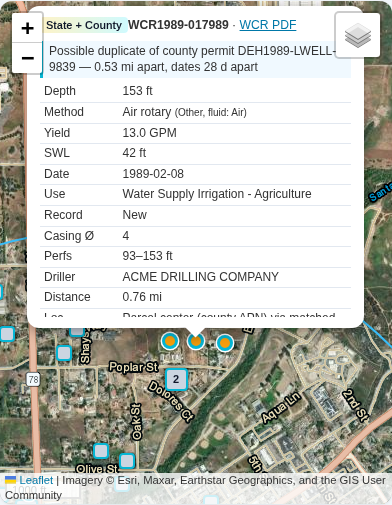
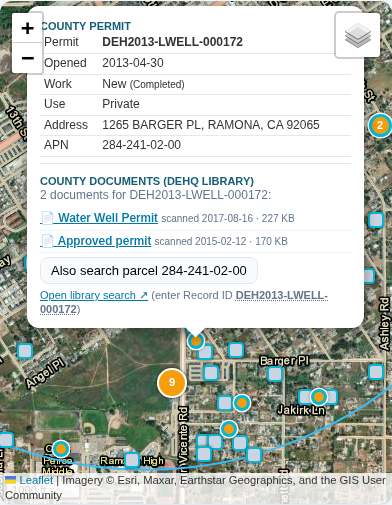
Inline San Diego County DEHQ document library listing (permits / WCRs) in well popups

diff --git a/js/app.js b/js/app.js
@@ -1,7 +1,7 @@
 /* Wells Nearby — UI: geolocation, map, summary, table. */
 (function () {
   'use strict';
-  const C = window.WELLS_CONFIG, D = window.WellsData, S = window.WellsStats, M = window.WellsMatch;
+  const C = window.WELLS_CONFIG, D = window.WellsData, S = window.WellsStats, M = window.WellsMatch, W = window.WellsDocs;
   const $ = (id) => document.getElementById(id);
   const esc = (s) => String(s ?? '').replace(/[&<>"']/g, (c) => ({ '&': '&amp;', '<': '&lt;', '>': '&gt;', '"': '&quot;', "'": '&#39;' }[c]));
   const fmt = (v, d = 0) => (v == null ? '—' : Number(v).toLocaleString(undefined, { maximumFractionDigits: d, minimumFractionDigits: d }));
@@ -120,6 +120,7 @@
     const allUses = $('optAllUses').checked, destroyed = $('optDestroyed').checked;
     const view = M.buildView(state.view, state.stateRecs, state.countyRecs, state.radius);
     state.shown = view.filter((w) => (allUses || w.waterSupply) && (destroyed || !w.destruction));
+    state.shown.forEach((w) => { const q = W.docQueries(w); w.docHint = q.some((x) => !x.secondary) ? '📄' : q.length ? 'APN' : ''; });
     renderSummary(); renderMarkers(); renderTable();
   }
 
@@ -197,7 +198,7 @@
     if (w.group === 'county') {
       const mt = w.matches.length ? `<div class="dup">${esc(w.matchLabel)} same well as state ${esc(w.wcr)} — ${esc(w.matches[0].reason)}. Log values below are from that WCR.</div>` : '<div class="dup none">No matching state WCR found — permit record only.</div>';
       const pdf = w.pdfUrl ? ` · <a href="${esc(w.pdfUrl)}" target="_blank" rel="noopener">WCR PDF</a>` : '';
-      return `${src}<b>${esc(w.permit)}</b>${pdf}${mt}<table>${countyRows(w)}${w.matches.length ? rowsLog.join('') : ''}${row('Distance', fmt(w.distanceMi, 2) + ' mi')}${row('Loc. accuracy', esc(w.llAccuracy))}</table>`;
+      return `${src}<b>${esc(w.permit)}</b>${pdf}${mt}<table>${countyRows(w)}${w.matches.length ? rowsLog.join('') : ''}${row('Distance', fmt(w.distanceMi, 2) + ' mi')}${row('Loc. accuracy', esc(w.llAccuracy))}</table>${docsBlock(w)}`;
     }
     const rows = rowsLog.concat([
       row('Date', w.dateStr),
@@ -213,16 +214,77 @@
     const c = w.group === 'both' ? w.county : (w.match && w.match.county);
     const dup = c ? `<div class="dup">${esc(w.matchLabel)} duplicate of county permit ${esc(c.permit)} — ${esc(w.match.reason)}</div>` : '';
     const ctab = c ? `<div class="sub">County permit</div><table>${countyRows(c)}</table>` : '';
-    return `${src}<b>${esc(w.wcr || w.legacyLog || 'WCR ?')}</b>${pdf}${dup}<table>${rows.join('')}</table>${ctab}`;
+    return `${src}<b>${esc(w.wcr || w.legacyLog || 'WCR ?')}</b>${pdf}${dup}<table>${rows.join('')}</table>${ctab}${docsBlock(w)}`;
   }
+
+  // ---------- County document library (fetched when the popup opens) ----------
+  const docReqs = new Map(); let docSeq = 0;
+  function docsBlock(w) {
+    const qs = W.docQueries(w);
+    if (!qs.length) return '';
+    const id = 'docs' + (++docSeq);
+    docReqs.set(id, qs);
+    if (docReqs.size > 200) docReqs.delete(docReqs.keys().next().value);
+    return `<div class="docs" id="${id}"><div class="sub">County documents (DEHQ library)</div><div class="docs-body"><span class="muted">…</span></div></div>`;
+  }
+  function libLink(q) {
+    return `<a href="${esc(C.docLibrary.searchPage)}" target="_blank" rel="noopener">Open library search ↗</a> <span class="muted">(enter ${q.type === 'record_id' ? 'Record ID' : 'APN'} <b class="copy" data-copy="${esc(q.value)}" title="tap to copy">${esc(q.value)}</b>)</span>`;
+  }
+  function renderDocList(docs, q, filtered) {
+    if (!docs.length) return `<div class="muted">No documents found for ${esc(q.label)}${q.guessed ? ' (permit ID derived from the WCR)' : ''}.</div>`;
+    return `<div class="muted">${docs.length} document${docs.length > 1 ? 's' : ''} for ${esc(q.label)}${filtered ? ' (well-related)' : ''}${q.guessed ? ' — permit ID derived from WCR' : ''}:</div><ul class="doclist">${docs.map((d) =>
+      `<li><a href="${esc(d.url)}" target="_blank" rel="noopener">${d.isWcr ? '📋 Well Completion Report' : '📄 ' + esc(d.description && !/^approved$/i.test(d.description) ? d.description : (/^approved$/i.test(d.description) ? 'Approved permit' : d.subtype))}</a>${d.isWcr ? ' <span class="dupTag">driller log</span>' : ''}${d.permit && q.type !== 'record_id' ? ` <small>${esc(d.permit)}</small>` : ''} <small class="muted">scanned ${esc(d.scanned)} · ${d.sizeKb} KB</small></li>`).join('')}</ul>`;
+  }
+  async function runDocQuery(el, q) {
+    const body = el.querySelector('.docs-body');
+    body.innerHTML = `<span class="muted">Searching county library for ${esc(q.label)}…</span>`;
+    try {
+      let docs = await W.search(q.type, q.value);
+      let filtered = false;
+      if (q.type === 'parcel_number') {
+        const well = docs.filter((d) => C.docLibrary.wellSubtypes.includes('DEH-LWQD-' + d.subtype));
+        filtered = well.length < docs.length; docs = well;
+      }
+      return renderDocList(docs, q, filtered);
+    } catch (e) {
+      return `<div class="bad">Library lookup failed (${esc(e.message || e)}).</div>`;
+    }
+  }
+  async function loadDocs(root) {
+    for (const el of root.querySelectorAll('.docs')) {
+      if (el.dataset.loaded) continue; el.dataset.loaded = '1';
+      const qs = docReqs.get(el.id) || [];
+      const main = qs.find((q) => !q.secondary) || qs[0];
+      const apn = qs.find((q) => q.secondary && q !== main);
+      const body = el.querySelector('.docs-body');
+      let html = await runDocQuery(el, main);
+      if (apn) html += `<button class="small" data-apn="1">Also search parcel ${esc(apn.value)}</button><div class="apn-res"></div>`;
+      html += `<div class="liblink">${libLink(main)}</div>`;
+      body.innerHTML = html;
+      const b = body.querySelector('button[data-apn]');
+      if (b) b.onclick = async (ev) => {
+        ev.stopPropagation(); b.disabled = true;
+        const tmp = document.createElement('div'); tmp.innerHTML = '<div class="docs-body"></div>';
+        const res = await runDocQuery(tmp, apn);
+        body.querySelector('.apn-res').innerHTML = res; b.remove();
+      };
+      body.querySelectorAll('.copy').forEach((c) => (c.onclick = (ev) => { ev.stopPropagation(); navigator.clipboard && navigator.clipboard.writeText(c.dataset.copy); c.classList.add('copied'); }));
+    }
+  }
+  map.on('popupopen', (e) => loadDocs(e.popup.getElement()));
 
   function groupPopup(ws) {
     if (ws.length === 1) return `<div class="popup">${wellDetails(ws[0])}</div>`;
+    setTimeout(() => document.querySelectorAll('.leaflet-popup .item .open-item').forEach((a) => (a.onclick = (ev) => {
+      ev.preventDefault();
+      const w = ws[+a.closest('.item').dataset.i];
+      if (w && w._marker) L.popup({ maxWidth: 310, maxHeight: 300 }).setLatLng(w._marker.getLatLng()).setContent(`<div class="popup">${wellDetails(w)}</div>`).openOn(map);
+    })), 0);
     const acc = ws[0].llAccuracy ? ` — ${esc(ws[0].llAccuracy)}` : '';
     const sorted = [...ws].sort((a, b) => (b.dateMs || 0) - (a.dateMs || 0));
     const g = C.groups[ws[0].group];
     return `<div class="popup"><div class="srcTag src-${ws[0].group}">${esc(g.label)}</div><h3>${ws.length} records at this point${acc}</h3><div class="list">${sorted.map((w) =>
-      `<div class="item"><b>${esc(w.wcr || w.permit || '?')}</b>${w.matchLabel ? ` <span class="dupTag">dup: ${esc(w.matchLabel)}</span>` : ''} · ${w.depthFt != null ? fmt(w.depthFt) + ' ft' : '— ft'} · ${w.gpm != null ? fmt(w.gpm, 1) + ' gpm' : '— gpm'} · SWL ${w.swlFt != null ? fmt(w.swlFt) : '—'} · ${esc(w.methodLabel)} · ${w.dateStr}${w.pdfUrl ? ` · <a href="${esc(w.pdfUrl)}" target="_blank" rel="noopener">PDF</a>` : ''}</div>`).join('')}</div></div>`;
+      `<div class="item" data-i="${ws.indexOf(w)}"><a href="#" class="open-item"><b>${esc(w.wcr || w.permit || '?')}</b></a>${w.matchLabel ? ` <span class="dupTag">dup: ${esc(w.matchLabel)}</span>` : ''} · ${w.depthFt != null ? fmt(w.depthFt) + ' ft' : '— ft'} · ${w.gpm != null ? fmt(w.gpm, 1) + ' gpm' : '— gpm'} · SWL ${w.swlFt != null ? fmt(w.swlFt) : '—'} · ${esc(w.methodLabel)} · ${w.dateStr}${w.pdfUrl ? ` · <a href="${esc(w.pdfUrl)}" target="_blank" rel="noopener">PDF</a>` : ''}</div>`).join('')}</div></div>`;
   }
 
   // ---------- Summary ----------

diff --git a/js/docs.js b/js/docs.js
@@ -1,0 +1,58 @@
+/* Wells Nearby — San Diego County DEHQ document library lookups (on tap, cached). */
+(function (global) {
+  'use strict';
+  const C = global.WELLS_CONFIG;
+  const cache = new Map();
+
+  /** Candidate county record IDs for a well (county permit, matched permit, or state permit # + permit year). */
+  function docQueries(w) {
+    const q = [];
+    const c = w.group === 'county' ? w : w.group === 'both' ? w.county : (w.match && w.match.county);
+    if (c && c.permit) q.push({ type: 'record_id', value: c.permit, label: c.permit });
+    if (!q.length && w.permit) {
+      // State WCR permit "LWEL 15082" + permit year 2002 -> "DEH2002-LWELL-15082" (6-digit padding from 2013 on).
+      const m = String(w.permit).toUpperCase().match(/(?:LWEL+|DEH\d{0,4})[-\s]*(?:LWELL[-\s]*)?0*(\d+)\s*$/);
+      const y = w.permitDateMs != null ? new Date(w.permitDateMs).getUTCFullYear() : w.year;
+      if (m && y) {
+        const id = `DEH${y}-LWELL-${y >= 2013 ? m[1].padStart(6, '0') : m[1]}`;
+        q.push({ type: 'record_id', value: id, label: id, guessed: true });
+      }
+    }
+    const apn = (c && c.apn) || w.apn;
+    if (apn && !/^0+[-0]*$/.test(apn)) q.push({ type: 'parcel_number', value: apn.split(',')[0].trim(), label: 'APN ' + apn.split(',')[0].trim(), secondary: true });
+    return q;
+  }
+
+  async function search(type, value) {
+    const L = C.docLibrary;
+    const key = type + '=' + value.toUpperCase();
+    if (cache.has(key)) return cache.get(key);
+    // NOTE: responses served from the county's cache layer omit the CORS header, so (like the county's own
+    // search page) we add a unique ts= parameter to always hit the origin, and retry once on failure.
+    const mkUrl = () => `${L.searchApi}?${type}=${encodeURIComponent(value.toUpperCase())}&doc_category=${L.category}&maxrecord_count=${L.maxRecords}&ts=${Date.now()}`;
+    const once = async () => {
+      const ctl = new AbortController(); const t = setTimeout(() => ctl.abort(), L.timeoutMs);
+      try {
+        const r = await fetch(mkUrl(), { signal: ctl.signal });
+        if (!r.ok) throw new Error('HTTP ' + r.status);
+        return await r.json();
+      } finally { clearTimeout(t); }
+    };
+    const p = (async () => {
+      {
+        let j;
+        try { j = await once(); } catch (e) { await new Promise((res) => setTimeout(res, 1200)); j = await once(); }
+        return (j.records || []).map((d) => ({
+          url: d.url, permit: d.permit_id, apn: d.parcel_nbr, subtype: (d.lueg_subtype || '').replace(/^DEH-LWQD-/, ''),
+          description: d.description || '', scanned: (d.r_creation_date || '').slice(0, 10), sizeKb: Math.round((+d.r_content_size || 0) / 1024),
+          type: d.a_content_type, isWcr: /wcr|completion|log/i.test(d.description || ''),
+        })).sort((a, b) => (a.scanned < b.scanned ? 1 : -1));
+      }
+    })();
+    cache.set(key, p);
+    p.catch(() => cache.delete(key));
+    return p;
+  }
+
+  global.WellsDocs = { docQueries, search };
+})(typeof window !== 'undefined' ? window : globalThis);

diff --git a/index.html b/index.html
@@ -58,6 +58,7 @@
   <footer class="card notes">
     <p><b>State data:</b> CA DWR Online System for Well Completion Reports (OSWCR), queried live. Values are as key-entered from driller reports and may be missing or wrong — verify with the original WCR PDF. Most WCRs are placed at the <i>center of the PLSS section</i> (≈1 sq mi), so many stack on one point.</p>
     <p><b>County data:</b> San Diego County DEHQ water-well <i>permits</i> (SanGIS), unincorporated area, permits opened 1975–Aug 2020. Located at the <i>center of the permitted parcel</i> (more precise than section centroids). Permits carry no depth/yield/level; those come from a matched state WCR. A permit does not guarantee a well was drilled.</p>
+    <p><b>County documents:</b> tapping a well lists its scanned permit file / completion report from the DEHQ Environmental Health Document Library (looked up live by permit number; optional APN search). Documents open in the County viewer; older logs are handwritten scans.</p>
     <p><b>Duplicates:</b> a county permit and a state WCR are flagged as the same well when permit # or APN match with close dates (<i>Likely</i>), or when they are within 0.75 mi with dates within ~4 months (<i>Possible</i>).</p>
     <p>Imagery: Esri World Imagery. Averages exclude missing, zero, and implausible values; <i>n</i> shows how many wells were used.</p>
   </footer>
@@ -67,6 +68,7 @@
   <script src="js/data.js"></script>
   <script src="js/stats.js"></script>
   <script src="js/match.js"></script>
+  <script src="js/docs.js"></script>
   <script src="js/app.js"></script>
 </body>
 </html>

diff --git a/js/config.js b/js/config.js
@@ -128,6 +128,19 @@
       },
     },
 
+    // San Diego County DEHQ "Environmental Health Document Library" (Documentum behind an AEM page).
+    // The search page has no URL parameters (no deep link), but its JSON API allows CORS (*),
+    // so the app lists documents inline. Each document opens in the county's own viewer (LUEG_View).
+    docLibrary: {
+      searchApi: 'https://file.sandiegocounty.gov/CoSD_LUEG_Repository_External_API/rest/DEHQDocumentLibrary/SearchDocuments',
+      searchPage: 'https://www.sandiegocounty.gov/content/sdc/deh/doclibrary.html',
+      category: 'DEH-LWQD',
+      maxRecords: 350,
+      timeoutMs: 30000,
+      // For APN searches, only these subcategories are shown by default (parcels can have dozens of septic/SAM docs).
+      wellSubtypes: ['DEH-LWQD-Water Well Permit', 'DEH-LWQD-Land Use Archive-Parcel', 'DEH-LWQD-Monitoring Well Permit Application'],
+    },
+
     // Where each group's markers/labels come from.
     groups: {
       state: { label: 'State (DWR WCR)', short: 'State', color: '#f59e0b' },
@@ -206,6 +219,7 @@
       { key: 'wcr', label: 'WCR #' },
       { key: 'permitId', label: 'County permit' },
       { key: 'matchLabel', label: 'Dup?' },
+      { key: 'docHint', label: 'Docs' },
     ],
   };
 

diff --git a/css/app.css b/css/app.css
@@ -73,3 +73,15 @@ tbody tr { cursor: pointer; }
 tr.row-county td.col-srcShort { color: #0e7490; font-weight: 600; }
 tr.row-both td.col-srcShort { color: #0f172a; font-weight: 600; }
 td.col-matchLabel { color: #0e7490; }
+
+.popup .docs { margin-top: 6px; border-top: 1px solid var(--line); padding-top: 4px; font-size: 12px; }
+.popup .doclist { margin: 4px 0; padding-left: 0; list-style: none; }
+.popup .doclist li { padding: 3px 0; border-bottom: 1px dotted var(--line); }
+.popup .doclist a { font-weight: 600; }
+.popup .muted, .muted { color: var(--muted); }
+.popup .bad { color: #b91c1c; }
+.popup .liblink { margin-top: 4px; font-size: 11px; }
+.popup .copy { cursor: pointer; text-decoration: underline dotted; }
+.popup .copy.copied::after { content: ' ✓'; color: #16a34a; }
+.popup .item a.open-item { color: inherit; }
+td.col-docHint { text-align: center; }

diff --git a/tools/screenshot.py b/tools/screenshot.py
@@ -28,9 +28,13 @@ with sync_playwright() as p:
     pg.evaluate('() => WellsApp.map.setZoom(15, {animate: false})'); pg.wait_for_timeout(2500)
     pg.locator('#map').screenshot(path=out.replace('.png', '-map.png'))
     pg.evaluate('''() => { const s = WellsApp.state.shown;
-      const w = s.find(x => x.group === 'both' && x.depthFt) || s.find(x => x.group === 'both') || s[0];
+      const w = s.find(x => x.group === 'both' && x.county && /LWELL-0/.test(x.county.permit)) || s.find(x => x.group === 'both' && x.depthFt) || s.find(x => x.group === 'both') || s[0];
       if (w && w._marker) { WellsApp.map.setView(w._marker.getLatLng(), 15, {animate: false}); w._marker.openPopup(); } }''')
-    pg.wait_for_timeout(2500)
+    try: pg.wait_for_selector('.leaflet-popup .doclist, .leaflet-popup .docs .bad, .leaflet-popup .docs-body div.muted', timeout=40000)
+    except Exception as e: print('docs wait:', e)
+    pg.evaluate("() => { const d = document.querySelector('.leaflet-popup .docs'); if (d) d.scrollIntoView(); }")
+    pg.wait_for_timeout(1500)
+    print('docs:', (pg.inner_text('.leaflet-popup .docs') if pg.locator('.leaflet-popup .docs').count() else 'none').replace('\n', ' | '))
     print('popup:', pg.inner_text('.leaflet-popup-content')[:400].replace('\n', ' | '))
     pg.locator('#map').screenshot(path=out.replace('.png', '-popup.png'))
     b.close()

diff --git a/README.md b/README.md
@@ -9,8 +9,12 @@ Sources (both queried live from the browser, CORS OK):
 - County: `https://gis-public.sandiegocounty.gov/arcgis/rest/services/DPLU/DPLU_Map/MapServer/100`
   ("Unincorporated LWQD Well Permits (DEH)"), parcel-center points, no depth/yield/SWL — those come from matched WCRs.
 
+- County documents: popups list the well's scanned files from the DEHQ Environmental Health Document Library, fetched on
+  popup open from `https://file.sandiegocounty.gov/CoSD_LUEG_Repository_External_API/rest/DEHQDocumentLibrary/SearchDocuments?record_id=…`
+  (or `parcel_number=…`), CORS `*` only on uncached responses → a `ts=` cache-buster is added (as the county page does).
+  Documents open in `https://file.sandiegocounty.gov/LUEG/LUEG_View?FileRecordId=…`. See `js/docs.js`.
 - `index.html`, `css/app.css`, `js/config.js` (endpoints, field map, method rules, filters, table columns),
-  `js/data.js` (query + normalize), `js/stats.js` (summaries), `js/match.js` (county↔state duplicate matching, State/County/Both views), `js/app.js` (UI), `vendor/leaflet/` (Leaflet 1.9.4).
+  `js/data.js` (query + normalize), `js/stats.js` (summaries), `js/match.js` (county↔state duplicate matching, State/County/Both views), `js/docs.js` (county document library), `js/app.js` (UI), `vendor/leaflet/` (Leaflet 1.9.4).
 - Link params: `?lat=33.0417&lon=-116.8681&r=1&view=both&all=1`
 - Test: `node tools/test-query.mjs [lat lon r] [--ckan] [--all] [--pairs]`;
   screenshot: `/workspace/.venv-pw/bin/python tools/screenshot.py [lat lon out.png]`
